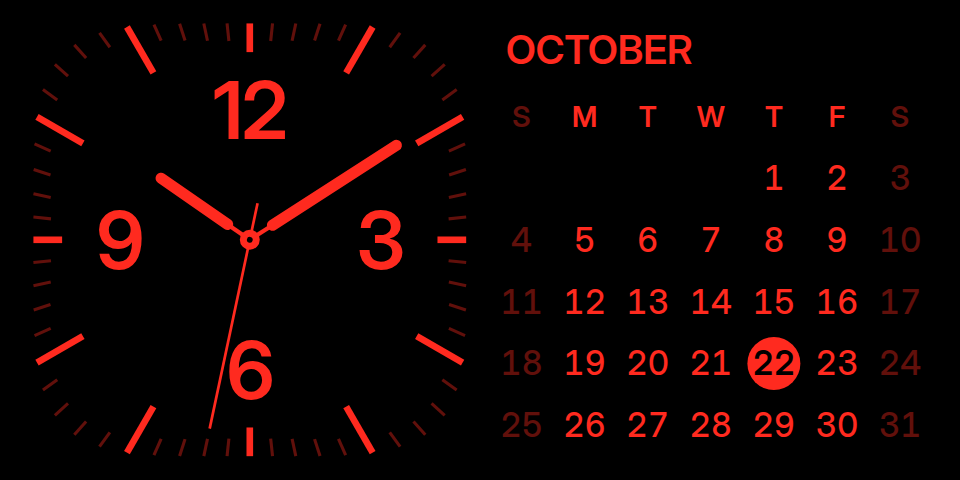
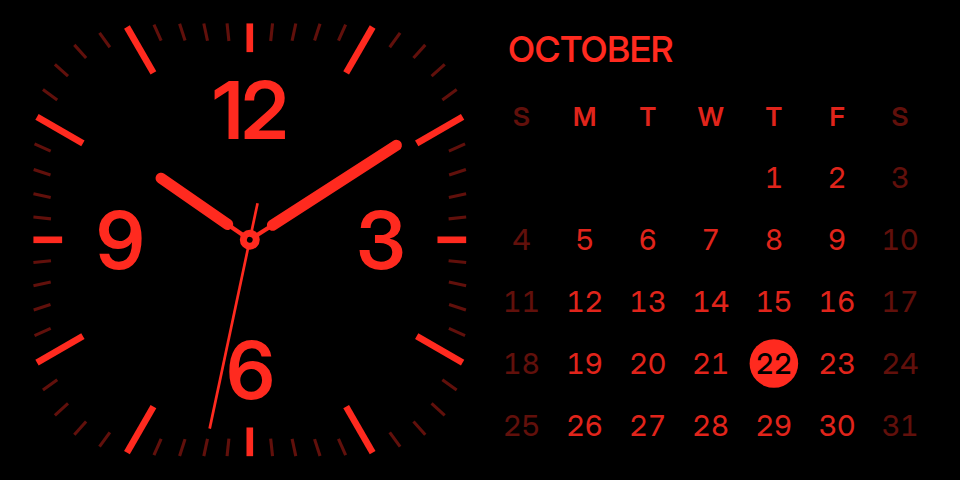
Lighten the calendar after the phone's own
Digits at about 45% of a column instead of 52%, in a 450 weight with a
slightly softer white, and a lighter month name and today.

Claude-Session: https://claude.ai/code/session_016crPFkUhvEiQXmLNbAMGff

diff --git a/assets/standby/standby.js b/assets/standby/standby.js
@@ -342,11 +342,12 @@
     'calendar': function (panel, now) {
       var root = svg(panel, '0 0 200 200');
       var column = 200 / 7, year = now.getFullYear(), month = now.getMonth();
-      text(root, column / 2 - 7, 14, upper(format(now, { month: 'long' })), 18, 600, 'accent', 'start');
+      // Sizes measured on the phone's calendar: digits about 45% of a column, in a regular weight.
+      text(root, column / 2 - 6, 14, upper(format(now, { month: 'long' })), 16, 550, 'accent', 'start');
       for (var c = 0; c < 7; c++) {
         var weekday = (firstDay + c) % 7, x = column * (c + 0.5);
         var sample = new Date(2023, 0, 1 + weekday); // 1 January 2023 was a Sunday.
-        text(root, x, 44, upper(format(sample, { weekday: 'narrow' })), 13, 600, 'fill' + (weekday % 6 === 0 ? ' dim' : ''));
+        text(root, x, 44, upper(format(sample, { weekday: 'narrow' })), 12, 600, 'fill' + (weekday % 6 === 0 ? ' dim' : ' soft'));
       }
       var offset = (new Date(year, month, 1).getDay() - firstDay + 7) % 7;
       var days = new Date(year, month + 1, 0).getDate(), rows = Math.ceil((offset + days) / 7);
@@ -355,10 +356,10 @@
         var cell = offset + d - 1, cx = column * (cell % 7 + 0.5), cy = 72 + Math.floor(cell / 7) * rowHeight;
         var dayOfWeek = new Date(year, month, d).getDay();
         if (d === now.getDate()) {
-          add(root, 'circle', { cx: cx, cy: cy, r: 12, 'class': 'accent' });
-          text(root, cx, cy, String(d), 15, 600, 'today-text');
+          add(root, 'circle', { cx: cx, cy: cy, r: 11, 'class': 'accent' });
+          text(root, cx, cy, String(d), 13, 500, 'today-text');
         } else {
-          text(root, cx, cy, String(d), 15, 500, 'fill' + (dayOfWeek % 6 === 0 ? ' dim' : ''));
+          text(root, cx, cy, String(d), 13, 450, 'fill' + (dayOfWeek % 6 === 0 ? ' dim' : ' soft'));
         }
       }
     },

diff --git a/assets/standby/standby.css b/assets/standby/standby.css
@@ -78,6 +78,7 @@ text.dial { font-variant-numeric: proportional-nums; letter-spacing: -0.02em; }
 .seconds-stroke { stroke: var(--seconds); }
 .background { fill: var(--background); }
 .today-text { fill: var(--today-text); }
+.soft { opacity: 0.88; }
 .dim { opacity: 0.38; }
 .faint { opacity: 0.22; }
 .off { opacity: 0.16; }

diff --git a/CHANGELOG.md b/CHANGELOG.md
@@ -1,5 +1,9 @@
 # Changelog
 
+## 1.2.1
+
+- Lighter calendar, sized after the phone's own: smaller digits with more room around them, a regular weight and a slightly softer white.
+
 ## 1.2.0
 
 - Analog round redrawn after the phone's own dial: even ticks with the hours in white, numerals on one circle with more room around them, two digit hours drawn in only slightly, and a margin around the dial.
